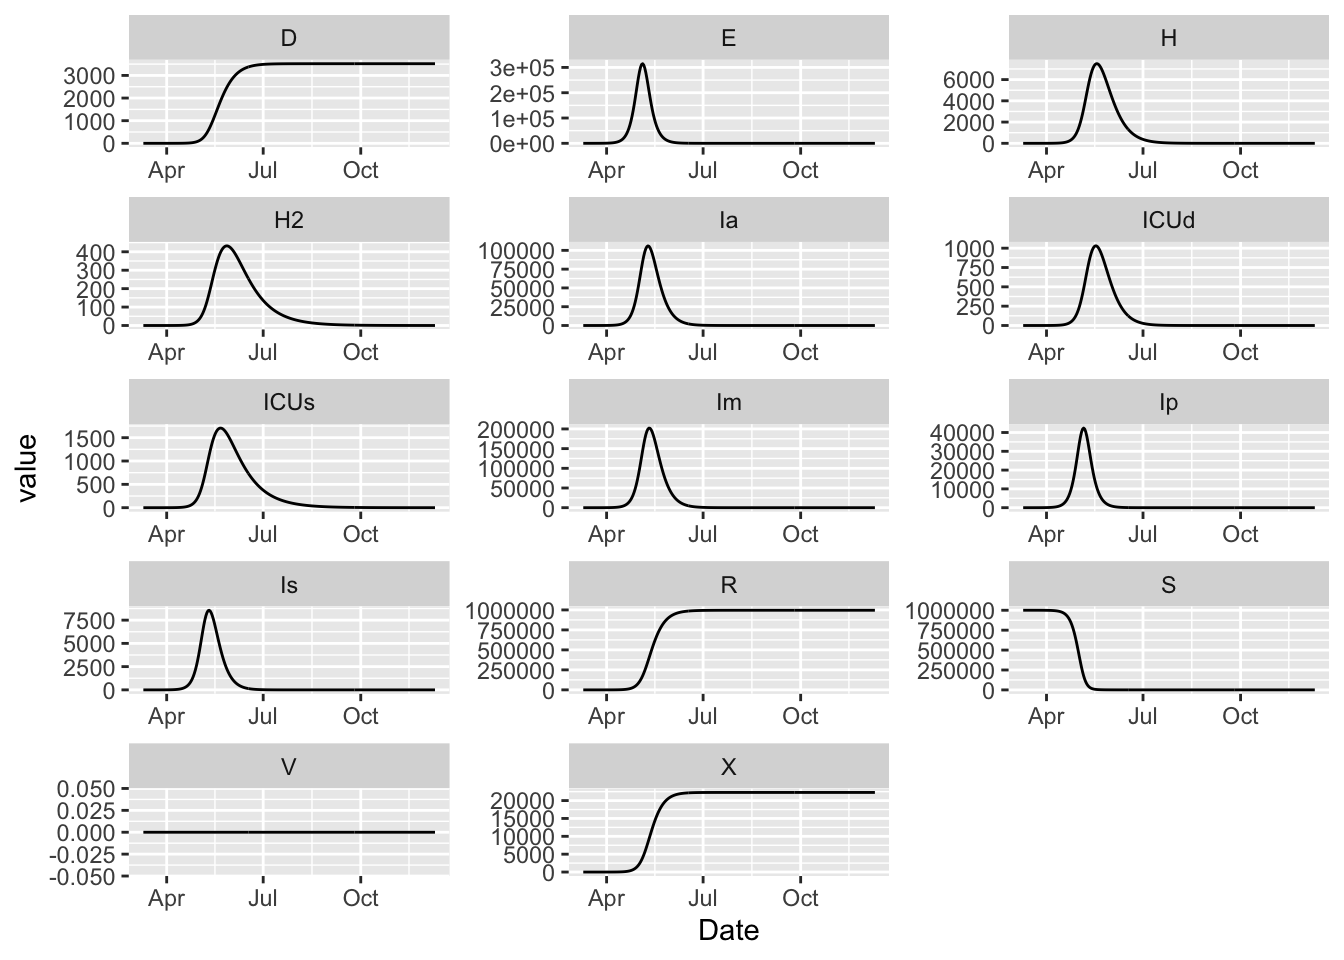
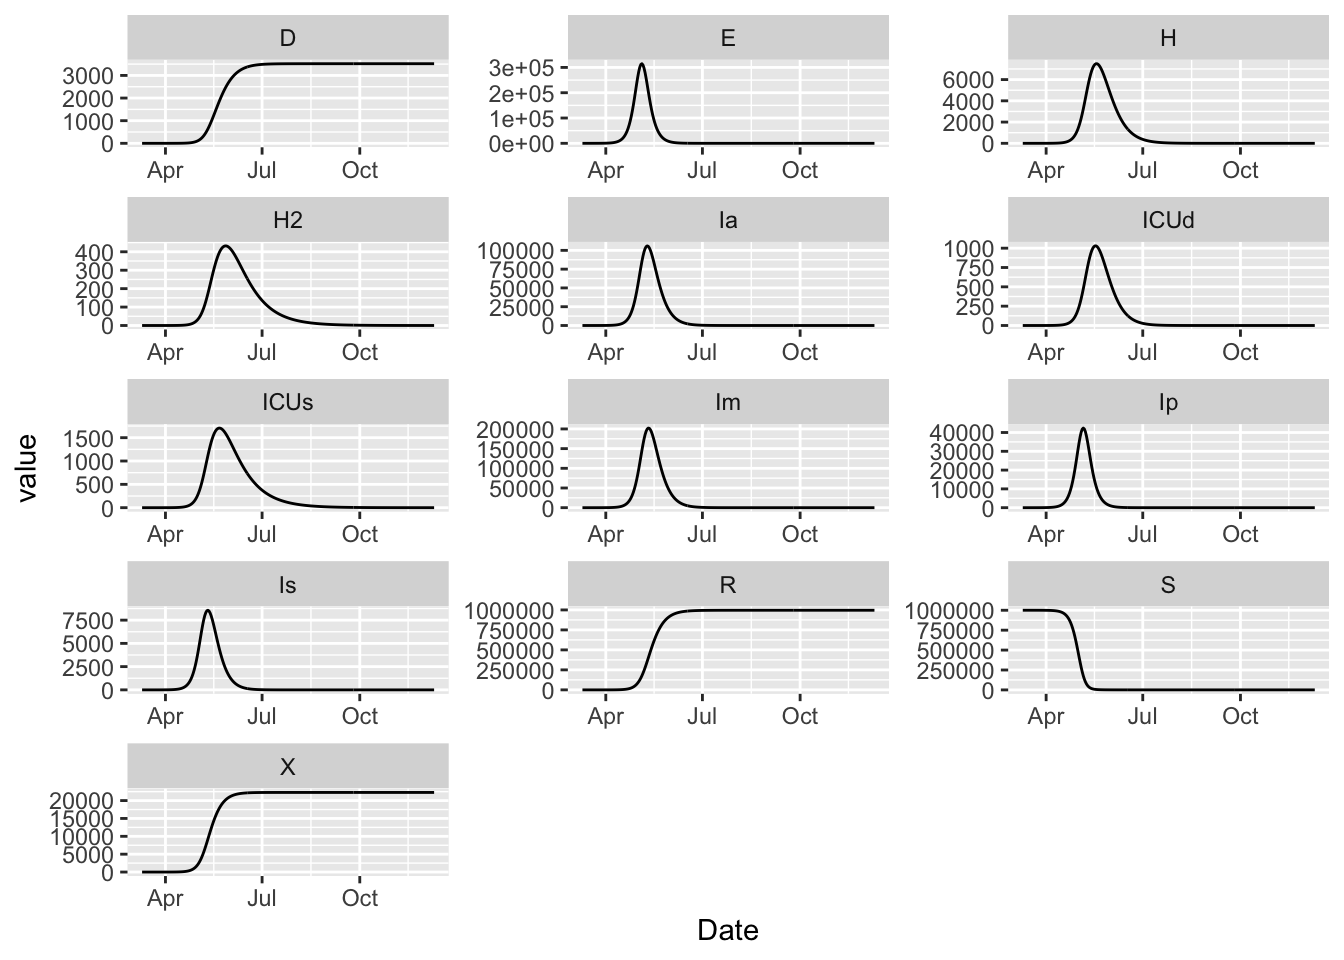
rebuild markdown - trying to get edit on github link working - remove V the cheap way for now (#214)

diff --git a/docs/examples.html b/docs/examples.html
@@ -11,7 +11,7 @@
   <meta property="og:title" content="Chapter 13 Examples | Generalized McMasterPandemic" />
   <meta property="og:type" content="book" />
   
-  <meta property="og:image" content="/path to the social sharing image like images/seird.jpg" />
+  
   <meta property="og:description" content="McMasterPandemic is a modelling tool that was rapidly developed to provide timely insights into the Covid-19 Pandemic in Canada. We are currently refactoring this tool so that it is faster and more general. This guide describes how to use this refactored version of McMasterPandemic." />
   <meta name="github-repo" content="canmod/macpan-book" />
 
@@ -19,7 +19,7 @@
   <meta name="twitter:title" content="Chapter 13 Examples | Generalized McMasterPandemic" />
   
   <meta name="twitter:description" content="McMasterPandemic is a modelling tool that was rapidly developed to provide timely insights into the Covid-19 Pandemic in Canada. We are currently refactoring this tool so that it is faster and more general. This guide describes how to use this refactored version of McMasterPandemic." />
-  <meta name="twitter:image" content="/path to the social sharing image like images/seird.jpg" />
+  
 
 <meta name="author" content="Steve Walker" />
 
@@ -885,7 +885,7 @@ code span.wa { color: #60a0b0; font-weight: bold; font-style: italic; } /* Warni
 <div class="sourceCode" id="cb67"><pre class="sourceCode r"><code class="sourceCode r"><span id="cb67-1"><a href="examples.html#cb67-1" aria-hidden="true" tabindex="-1"></a>params <span class="ot">=</span> <span class="fu">read_params</span>(<span class="st">&quot;ICU1.csv&quot;</span>)</span>
 <span id="cb67-2"><a href="examples.html#cb67-2" aria-hidden="true" tabindex="-1"></a>model <span class="ot">=</span> (<span class="fu">flexmodel</span>(</span>
 <span id="cb67-3"><a href="examples.html#cb67-3" aria-hidden="true" tabindex="-1"></a>    <span class="at">params =</span> params,</span>
-<span id="cb67-4"><a href="examples.html#cb67-4" aria-hidden="true" tabindex="-1"></a>    <span class="at">state =</span> <span class="fu">make_state</span>(<span class="at">params =</span> params),</span>
+<span id="cb67-4"><a href="examples.html#cb67-4" aria-hidden="true" tabindex="-1"></a>    <span class="at">state =</span> <span class="fu">make_state</span>(<span class="at">params =</span> params)[<span class="sc">-</span><span class="dv">14</span>], <span class="co"># -14 removes V compartment</span></span>
 <span id="cb67-5"><a href="examples.html#cb67-5" aria-hidden="true" tabindex="-1"></a>    <span class="at">start_date =</span> <span class="st">&quot;2020-03-10&quot;</span>,</span>
 <span id="cb67-6"><a href="examples.html#cb67-6" aria-hidden="true" tabindex="-1"></a>    <span class="at">end_date =</span> <span class="st">&quot;2020-12-10&quot;</span>,</span>
 <span id="cb67-7"><a href="examples.html#cb67-7" aria-hidden="true" tabindex="-1"></a>    <span class="at">do_make_state =</span> <span class="cn">FALSE</span>,</span>
@@ -964,7 +964,7 @@ gitbook.start({
 "size": 2
 },
 "edit": {
-"link": "https://github.com/USERNAME/REPO/edit/BRANCH/12-examples.Rmd",
+"link": "https://github.com/canmod/macpan-book/edit/main/12-examples.Rmd",
 "text": "Edit"
 },
 "history": {

diff --git a/docs/time-varying-parameters.html b/docs/time-varying-parameters.html
@@ -11,7 +11,7 @@
   <meta property="og:title" content="Chapter 6 Time Varying Parameters | Generalized McMasterPandemic" />
   <meta property="og:type" content="book" />
   
-  <meta property="og:image" content="/path to the social sharing image like images/seird.jpg" />
+  
   <meta property="og:description" content="McMasterPandemic is a modelling tool that was rapidly developed to provide timely insights into the Covid-19 Pandemic in Canada. We are currently refactoring this tool so that it is faster and more general. This guide describes how to use this refactored version of McMasterPandemic." />
   <meta name="github-repo" content="canmod/macpan-book" />
 
@@ -19,7 +19,7 @@
   <meta name="twitter:title" content="Chapter 6 Time Varying Parameters | Generalized McMasterPandemic" />
   
   <meta name="twitter:description" content="McMasterPandemic is a modelling tool that was rapidly developed to provide timely insights into the Covid-19 Pandemic in Canada. We are currently refactoring this tool so that it is faster and more general. This guide describes how to use this refactored version of McMasterPandemic." />
-  <meta name="twitter:image" content="/path to the social sharing image like images/seird.jpg" />
+  
 
 <meta name="author" content="Steve Walker" />
 
@@ -379,7 +379,7 @@ gitbook.start({
 "size": 2
 },
 "edit": {
-"link": "https://github.com/USERNAME/REPO/edit/BRANCH/05-time-varying-parameters.Rmd",
+"link": "https://github.com/canmod/macpan-book/edit/main/05-time-varying-parameters.Rmd",
 "text": "Edit"
 },
 "history": {

diff --git a/docs/simple-model-initializtion.html b/docs/simple-model-initializtion.html
@@ -11,7 +11,7 @@
   <meta property="og:title" content="Chapter 2 Simple Model Initializtion | Generalized McMasterPandemic" />
   <meta property="og:type" content="book" />
   
-  <meta property="og:image" content="/path to the social sharing image like images/seird.jpg" />
+  
   <meta property="og:description" content="McMasterPandemic is a modelling tool that was rapidly developed to provide timely insights into the Covid-19 Pandemic in Canada. We are currently refactoring this tool so that it is faster and more general. This guide describes how to use this refactored version of McMasterPandemic." />
   <meta name="github-repo" content="canmod/macpan-book" />
 
@@ -19,7 +19,7 @@
   <meta name="twitter:title" content="Chapter 2 Simple Model Initializtion | Generalized McMasterPandemic" />
   
   <meta name="twitter:description" content="McMasterPandemic is a modelling tool that was rapidly developed to provide timely insights into the Covid-19 Pandemic in Canada. We are currently refactoring this tool so that it is faster and more general. This guide describes how to use this refactored version of McMasterPandemic." />
-  <meta name="twitter:image" content="/path to the social sharing image like images/seird.jpg" />
+  
 
 <meta name="author" content="Steve Walker" />
 
@@ -335,7 +335,7 @@ gitbook.start({
 "size": 2
 },
 "edit": {
-"link": "https://github.com/USERNAME/REPO/edit/BRANCH/01-model-definition.Rmd",
+"link": "https://github.com/canmod/macpan-book/edit/main/01-model-definition.Rmd",
 "text": "Edit"
 },
 "history": {

diff --git a/docs/state-initialization.html b/docs/state-initialization.html
@@ -11,7 +11,7 @@
   <meta property="og:title" content="Chapter 11 State Initialization | Generalized McMasterPandemic" />
   <meta property="og:type" content="book" />
   
-  <meta property="og:image" content="/path to the social sharing image like images/seird.jpg" />
+  
   <meta property="og:description" content="McMasterPandemic is a modelling tool that was rapidly developed to provide timely insights into the Covid-19 Pandemic in Canada. We are currently refactoring this tool so that it is faster and more general. This guide describes how to use this refactored version of McMasterPandemic." />
   <meta name="github-repo" content="canmod/macpan-book" />
 
@@ -19,7 +19,7 @@
   <meta name="twitter:title" content="Chapter 11 State Initialization | Generalized McMasterPandemic" />
   
   <meta name="twitter:description" content="McMasterPandemic is a modelling tool that was rapidly developed to provide timely insights into the Covid-19 Pandemic in Canada. We are currently refactoring this tool so that it is faster and more general. This guide describes how to use this refactored version of McMasterPandemic." />
-  <meta name="twitter:image" content="/path to the social sharing image like images/seird.jpg" />
+  
 
 <meta name="author" content="Steve Walker" />
 
@@ -279,7 +279,7 @@ gitbook.start({
 "size": 2
 },
 "edit": {
-"link": "https://github.com/USERNAME/REPO/edit/BRANCH/10-state-initializers.Rmd",
+"link": "https://github.com/canmod/macpan-book/edit/main/10-state-initializers.Rmd",
 "text": "Edit"
 },
 "history": {

diff --git a/docs/ensemble-forecasts.html b/docs/ensemble-forecasts.html
@@ -11,7 +11,7 @@
   <meta property="og:title" content="Chapter 8 Ensemble Forecasts | Generalized McMasterPandemic" />
   <meta property="og:type" content="book" />
   
-  <meta property="og:image" content="/path to the social sharing image like images/seird.jpg" />
+  
   <meta property="og:description" content="McMasterPandemic is a modelling tool that was rapidly developed to provide timely insights into the Covid-19 Pandemic in Canada. We are currently refactoring this tool so that it is faster and more general. This guide describes how to use this refactored version of McMasterPandemic." />
   <meta name="github-repo" content="canmod/macpan-book" />
 
@@ -19,7 +19,7 @@
   <meta name="twitter:title" content="Chapter 8 Ensemble Forecasts | Generalized McMasterPandemic" />
   
   <meta name="twitter:description" content="McMasterPandemic is a modelling tool that was rapidly developed to provide timely insights into the Covid-19 Pandemic in Canada. We are currently refactoring this tool so that it is faster and more general. This guide describes how to use this refactored version of McMasterPandemic." />
-  <meta name="twitter:image" content="/path to the social sharing image like images/seird.jpg" />
+  
 
 <meta name="author" content="Steve Walker" />
 
@@ -279,7 +279,7 @@ gitbook.start({
 "size": 2
 },
 "edit": {
-"link": "https://github.com/USERNAME/REPO/edit/BRANCH/07-ensemble-forecasts.Rmd",
+"link": "https://github.com/canmod/macpan-book/edit/main/07-ensemble-forecasts.Rmd",
 "text": "Edit"
 },
 "history": {

diff --git a/docs/troubleshooting.html b/docs/troubleshooting.html
@@ -11,7 +11,7 @@
   <meta property="og:title" content="Chapter 14 Troubleshooting | Generalized McMasterPandemic" />
   <meta property="og:type" content="book" />
   
-  <meta property="og:image" content="/path to the social sharing image like images/seird.jpg" />
+  
   <meta property="og:description" content="McMasterPandemic is a modelling tool that was rapidly developed to provide timely insights into the Covid-19 Pandemic in Canada. We are currently refactoring this tool so that it is faster and more general. This guide describes how to use this refactored version of McMasterPandemic." />
   <meta name="github-repo" content="canmod/macpan-book" />
 
@@ -19,7 +19,7 @@
   <meta name="twitter:title" content="Chapter 14 Troubleshooting | Generalized McMasterPandemic" />
   
   <meta name="twitter:description" content="McMasterPandemic is a modelling tool that was rapidly developed to provide timely insights into the Covid-19 Pandemic in Canada. We are currently refactoring this tool so that it is faster and more general. This guide describes how to use this refactored version of McMasterPandemic." />
-  <meta name="twitter:image" content="/path to the social sharing image like images/seird.jpg" />
+  
 
 <meta name="author" content="Steve Walker" />
 
@@ -298,7 +298,7 @@ gitbook.start({
 "size": 2
 },
 "edit": {
-"link": "https://github.com/USERNAME/REPO/edit/BRANCH/13-troubleshooting.Rmd",
+"link": "https://github.com/canmod/macpan-book/edit/main/13-troubleshooting.Rmd",
 "text": "Edit"
 },
 "history": {

diff --git a/docs/other-variables.html b/docs/other-variables.html
@@ -11,7 +11,7 @@
   <meta property="og:title" content="Chapter 7 Other Variables | Generalized McMasterPandemic" />
   <meta property="og:type" content="book" />
   
-  <meta property="og:image" content="/path to the social sharing image like images/seird.jpg" />
+  
   <meta property="og:description" content="McMasterPandemic is a modelling tool that was rapidly developed to provide timely insights into the Covid-19 Pandemic in Canada. We are currently refactoring this tool so that it is faster and more general. This guide describes how to use this refactored version of McMasterPandemic." />
   <meta name="github-repo" content="canmod/macpan-book" />
 
@@ -19,7 +19,7 @@
   <meta name="twitter:title" content="Chapter 7 Other Variables | Generalized McMasterPandemic" />
   
   <meta name="twitter:description" content="McMasterPandemic is a modelling tool that was rapidly developed to provide timely insights into the Covid-19 Pandemic in Canada. We are currently refactoring this tool so that it is faster and more general. This guide describes how to use this refactored version of McMasterPandemic." />
-  <meta name="twitter:image" content="/path to the social sharing image like images/seird.jpg" />
+  
 
 <meta name="author" content="Steve Walker" />
 
@@ -346,7 +346,7 @@ gitbook.start({
 "size": 2
 },
 "edit": {
-"link": "https://github.com/USERNAME/REPO/edit/BRANCH/06-other-variables.Rmd",
+"link": "https://github.com/canmod/macpan-book/edit/main/06-other-variables.Rmd",
 "text": "Edit"
 },
 "history": {

diff --git a/docs/flow-between-states.html b/docs/flow-between-states.html
@@ -11,7 +11,7 @@
   <meta property="og:title" content="Chapter 3 Flow Between States | Generalized McMasterPandemic" />
   <meta property="og:type" content="book" />
   
-  <meta property="og:image" content="/path to the social sharing image like images/seird.jpg" />
+  
   <meta property="og:description" content="McMasterPandemic is a modelling tool that was rapidly developed to provide timely insights into the Covid-19 Pandemic in Canada. We are currently refactoring this tool so that it is faster and more general. This guide describes how to use this refactored version of McMasterPandemic." />
   <meta name="github-repo" content="canmod/macpan-book" />
 
@@ -19,7 +19,7 @@
   <meta name="twitter:title" content="Chapter 3 Flow Between States | Generalized McMasterPandemic" />
   
   <meta name="twitter:description" content="McMasterPandemic is a modelling tool that was rapidly developed to provide timely insights into the Covid-19 Pandemic in Canada. We are currently refactoring this tool so that it is faster and more general. This guide describes how to use this refactored version of McMasterPandemic." />
-  <meta name="twitter:image" content="/path to the social sharing image like images/seird.jpg" />
+  
 
 <meta name="author" content="Steve Walker" />
 
@@ -447,7 +447,7 @@ gitbook.start({
 "size": 2
 },
 "edit": {
-"link": "https://github.com/USERNAME/REPO/edit/BRANCH/02-flows.Rmd",
+"link": "https://github.com/canmod/macpan-book/edit/main/02-flows.Rmd",
 "text": "Edit"
 },
 "history": {

diff --git a/docs/hazard-smoothing.html b/docs/hazard-smoothing.html
@@ -11,7 +11,7 @@
   <meta property="og:title" content="Chapter 10 Hazard Smoothing | Generalized McMasterPandemic" />
   <meta property="og:type" content="book" />
   
-  <meta property="og:image" content="/path to the social sharing image like images/seird.jpg" />
+  
   <meta property="og:description" content="McMasterPandemic is a modelling tool that was rapidly developed to provide timely insights into the Covid-19 Pandemic in Canada. We are currently refactoring this tool so that it is faster and more general. This guide describes how to use this refactored version of McMasterPandemic." />
   <meta name="github-repo" content="canmod/macpan-book" />
 
@@ -19,7 +19,7 @@
   <meta name="twitter:title" content="Chapter 10 Hazard Smoothing | Generalized McMasterPandemic" />
   
   <meta name="twitter:description" content="McMasterPandemic is a modelling tool that was rapidly developed to provide timely insights into the Covid-19 Pandemic in Canada. We are currently refactoring this tool so that it is faster and more general. This guide describes how to use this refactored version of McMasterPandemic." />
-  <meta name="twitter:image" content="/path to the social sharing image like images/seird.jpg" />
+  
 
 <meta name="author" content="Steve Walker" />
 
@@ -279,7 +279,7 @@ gitbook.start({
 "size": 2
 },
 "edit": {
-"link": "https://github.com/USERNAME/REPO/edit/BRANCH/09-hazard.Rmd",
+"link": "https://github.com/canmod/macpan-book/edit/main/09-hazard.Rmd",
 "text": "Edit"
 },
 "history": {

diff --git a/docs/calibration.html b/docs/calibration.html
@@ -11,7 +11,7 @@
   <meta property="og:title" content="Chapter 5 Calibration | Generalized McMasterPandemic" />
   <meta property="og:type" content="book" />
   
-  <meta property="og:image" content="/path to the social sharing image like images/seird.jpg" />
+  
   <meta property="og:description" content="McMasterPandemic is a modelling tool that was rapidly developed to provide timely insights into the Covid-19 Pandemic in Canada. We are currently refactoring this tool so that it is faster and more general. This guide describes how to use this refactored version of McMasterPandemic." />
   <meta name="github-repo" content="canmod/macpan-book" />
 
@@ -19,7 +19,7 @@
   <meta name="twitter:title" content="Chapter 5 Calibration | Generalized McMasterPandemic" />
   
   <meta name="twitter:description" content="McMasterPandemic is a modelling tool that was rapidly developed to provide timely insights into the Covid-19 Pandemic in Canada. We are currently refactoring this tool so that it is faster and more general. This guide describes how to use this refactored version of McMasterPandemic." />
-  <meta name="twitter:image" content="/path to the social sharing image like images/seird.jpg" />
+  
 
 <meta name="author" content="Steve Walker" />
 
@@ -398,7 +398,7 @@ gitbook.start({
 "size": 2
 },
 "edit": {
-"link": "https://github.com/USERNAME/REPO/edit/BRANCH/04-calibration.Rmd",
+"link": "https://github.com/canmod/macpan-book/edit/main/04-calibration.Rmd",
 "text": "Edit"
 },
 "history": {

diff --git a/docs/simulation.html b/docs/simulation.html
@@ -11,7 +11,7 @@
   <meta property="og:title" content="Chapter 4 Simulation | Generalized McMasterPandemic" />
   <meta property="og:type" content="book" />
   
-  <meta property="og:image" content="/path to the social sharing image like images/seird.jpg" />
+  
   <meta property="og:description" content="McMasterPandemic is a modelling tool that was rapidly developed to provide timely insights into the Covid-19 Pandemic in Canada. We are currently refactoring this tool so that it is faster and more general. This guide describes how to use this refactored version of McMasterPandemic." />
   <meta name="github-repo" content="canmod/macpan-book" />
 
@@ -19,7 +19,7 @@
   <meta name="twitter:title" content="Chapter 4 Simulation | Generalized McMasterPandemic" />
   
   <meta name="twitter:description" content="McMasterPandemic is a modelling tool that was rapidly developed to provide timely insights into the Covid-19 Pandemic in Canada. We are currently refactoring this tool so that it is faster and more general. This guide describes how to use this refactored version of McMasterPandemic." />
-  <meta name="twitter:image" content="/path to the social sharing image like images/seird.jpg" />
+  
 
 <meta name="author" content="Steve Walker" />
 
@@ -314,7 +314,7 @@ gitbook.start({
 "size": 2
 },
 "edit": {
-"link": "https://github.com/USERNAME/REPO/edit/BRANCH/03-simulating.Rmd",
+"link": "https://github.com/canmod/macpan-book/edit/main/03-simulating.Rmd",
 "text": "Edit"
 },
 "history": {

diff --git a/docs/outflows.html b/docs/outflows.html
@@ -11,7 +11,7 @@
   <meta property="og:title" content="Chapter 12 Outflows | Generalized McMasterPandemic" />
   <meta property="og:type" content="book" />
   
-  <meta property="og:image" content="/path to the social sharing image like images/seird.jpg" />
+  
   <meta property="og:description" content="McMasterPandemic is a modelling tool that was rapidly developed to provide timely insights into the Covid-19 Pandemic in Canada. We are currently refactoring this tool so that it is faster and more general. This guide describes how to use this refactored version of McMasterPandemic." />
   <meta name="github-repo" content="canmod/macpan-book" />
 
@@ -19,7 +19,7 @@
   <meta name="twitter:title" content="Chapter 12 Outflows | Generalized McMasterPandemic" />
   
   <meta name="twitter:description" content="McMasterPandemic is a modelling tool that was rapidly developed to provide timely insights into the Covid-19 Pandemic in Canada. We are currently refactoring this tool so that it is faster and more general. This guide describes how to use this refactored version of McMasterPandemic." />
-  <meta name="twitter:image" content="/path to the social sharing image like images/seird.jpg" />
+  
 
 <meta name="author" content="Steve Walker" />
 
@@ -311,7 +311,7 @@ gitbook.start({
 "size": 2
 },
 "edit": {
-"link": "https://github.com/USERNAME/REPO/edit/BRANCH/11-outflows.Rmd",
+"link": "https://github.com/canmod/macpan-book/edit/main/11-outflows.Rmd",
 "text": "Edit"
 },
 "history": {
